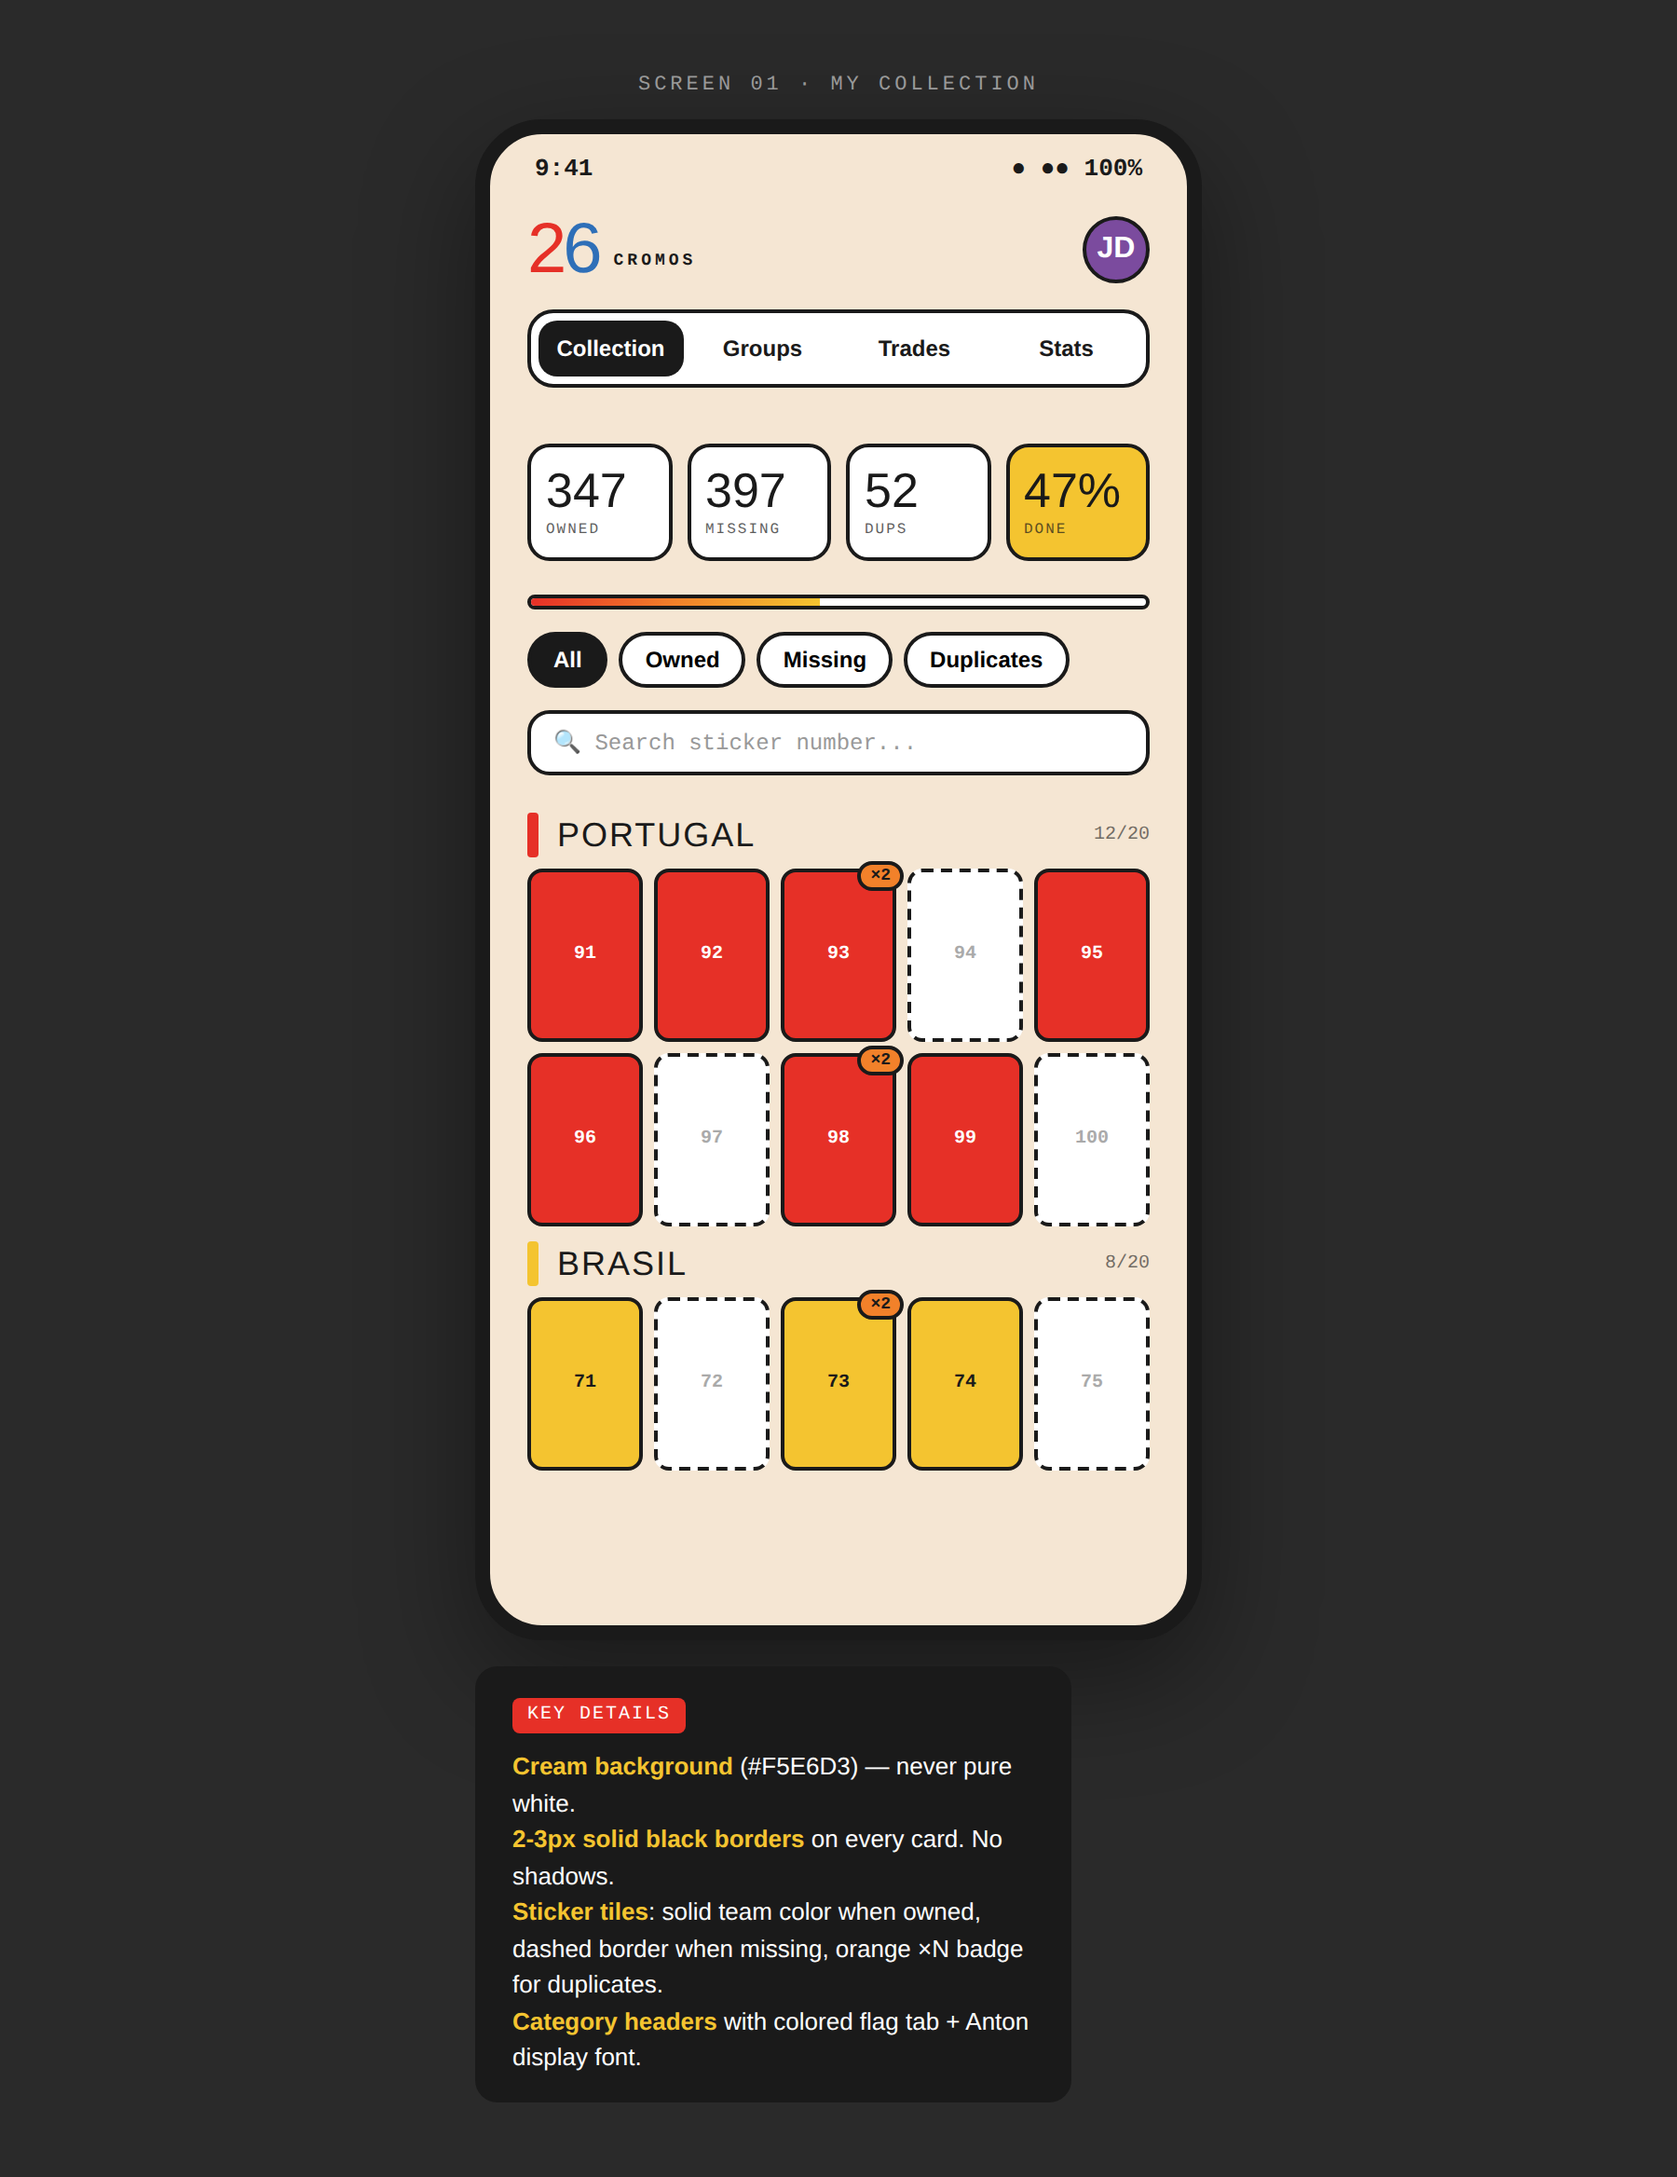
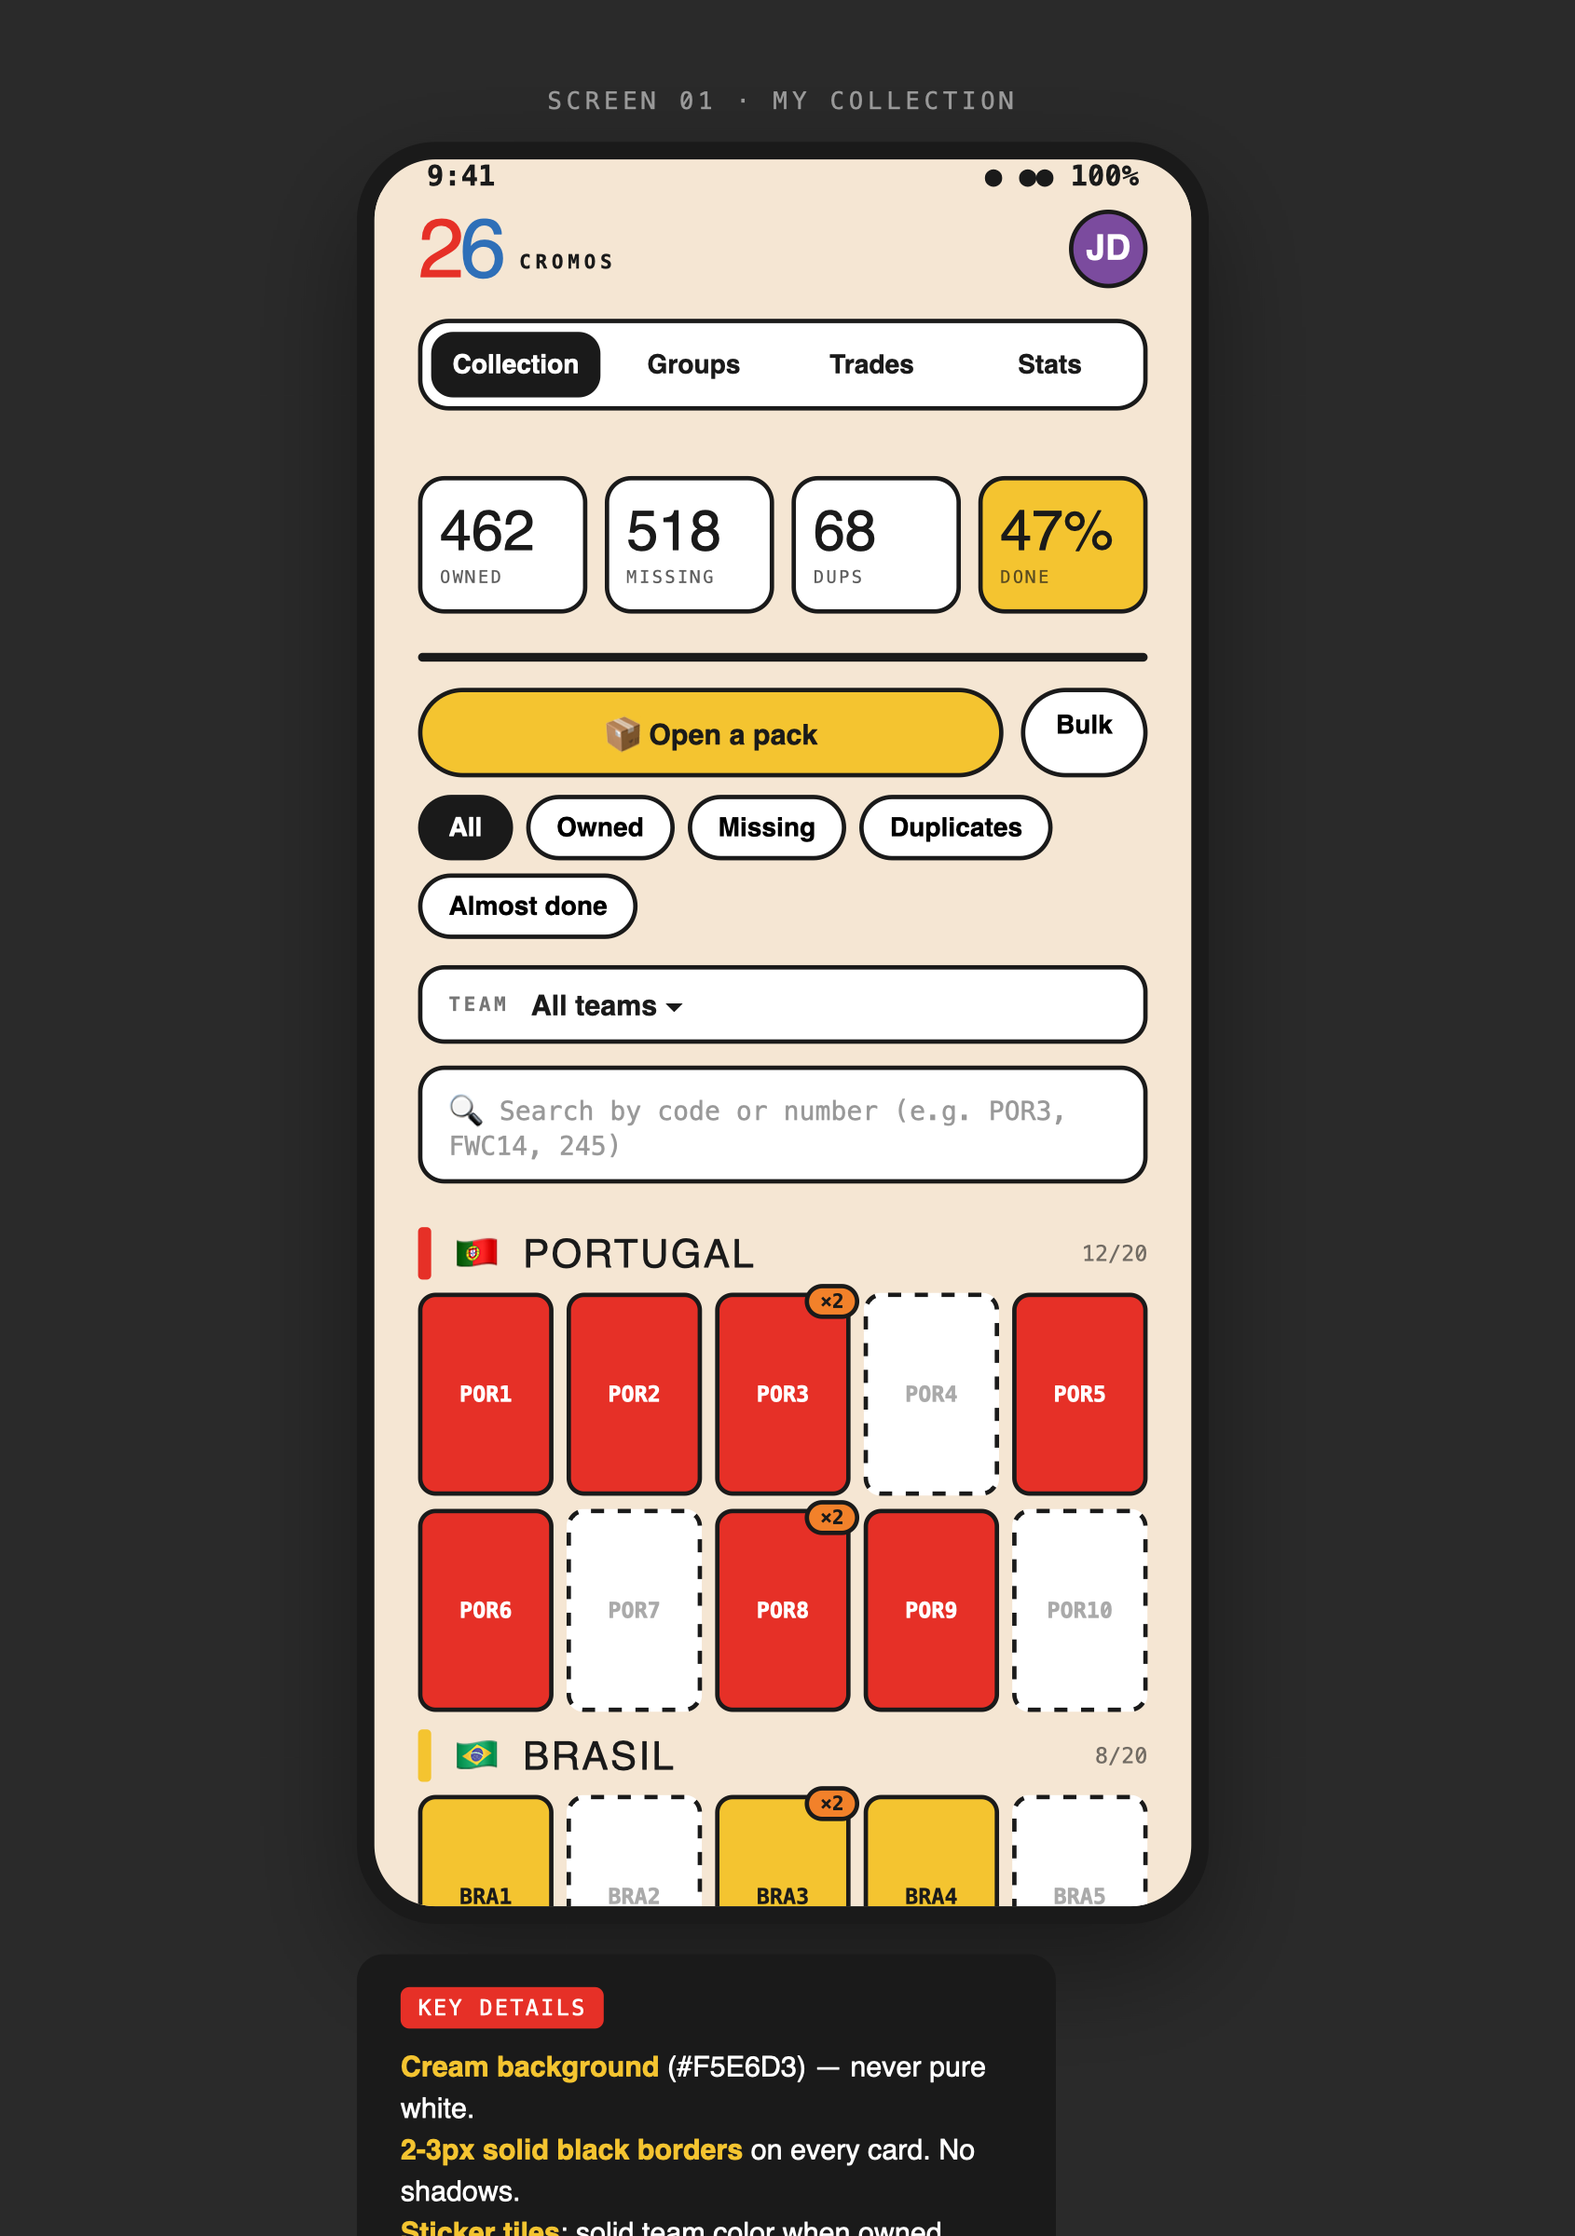
docs(design-refs): mockups reflect the album-accurate numbering
The README screenshot strip was still showing the old #91/#92/#94 sticker numbers
even though the live app now renders POR1, POR2, FWC14, etc. Updated:

- 03-screen-collection.html: tile labels POR1..POR10, BRA1..BRA5; added the new
  "Open a pack" yellow CTA, "Almost done" filter chip, and the team-picker
  dropdown row; updated stat counts to add up to 980; reworded the search
  placeholder to match the live UI (\"Search by code or number...\").
- 04-screen-group.html: trade-suggestion chips now show prefixed labels
  (RSA3, BIH7, MAR5, AUS18, CZE14, QAT16, USA12, ECU1, MEX2, CZE9, HAI20,
  CAN8, AUS10) instead of #43/#127/etc.
- 05-screen-stats.html: stickers total is 980 (was 744); "Legends 11/50"
  category replaced with the real "FIFA Museum 7/11"; numbers add up.

Re-rendered all three to PNG via macOS qlmanage at 2400px and cropped to the
phone+annotation layout the README expects.

diff --git a/design-refs/03-screen-collection.html b/design-refs/03-screen-collection.html
@@ -182,7 +182,7 @@
     padding: 0 20px 12px;
     display: flex;
     gap: 6px;
-    overflow-x: auto;
+    flex-wrap: wrap;
   }
   .chip {
     padding: 6px 12px;
@@ -194,6 +194,51 @@
     white-space: nowrap;
   }
   .chip.active { background: var(--panini-ink); color: #fff; }
+  /* action row: open-a-pack CTA + bulk toggle */
+  .action-row {
+    padding: 0 20px 8px;
+    display: flex;
+    gap: 8px;
+  }
+  .pack-cta {
+    flex: 1;
+    background: var(--panini-yellow);
+    border: 2px solid var(--panini-ink);
+    border-radius: 999px;
+    padding: 8px 14px;
+    text-align: center;
+    font-weight: 700;
+    font-size: 13px;
+    color: var(--panini-ink);
+  }
+  .action-row .chip {
+    padding: 8px 14px;
+  }
+  /* team picker */
+  .team-row {
+    margin: 0 20px 10px;
+    background: #fff;
+    border: 2px solid var(--panini-ink);
+    border-radius: 12px;
+    padding: 8px 12px;
+    display: flex;
+    align-items: center;
+    gap: 10px;
+  }
+  .team-label {
+    font-family: 'JetBrains Mono', monospace;
+    font-size: 9px;
+    letter-spacing: 1.5px;
+    font-weight: 700;
+    color: var(--panini-ink);
+    opacity: 0.6;
+  }
+  .team-value {
+    font-family: 'DM Sans', sans-serif;
+    font-size: 13px;
+    font-weight: 600;
+    color: var(--panini-ink);
+  }
   /* search */
   .search {
     margin: 0 20px 12px;
@@ -220,6 +265,10 @@
     height: 24px;
     background: var(--panini-red);
     border-radius: 2px;
+  }
+  .category-emoji {
+    font-size: 18px;
+    line-height: 1;
   }
   .category-name {
     font-family: 'Anton', sans-serif;
@@ -334,54 +383,67 @@
         </div>
 
         <div class="stats-strip">
-          <div class="stat"><div class="num">347</div><div class="lbl">Owned</div></div>
-          <div class="stat"><div class="num">397</div><div class="lbl">Missing</div></div>
-          <div class="stat"><div class="num">52</div><div class="lbl">Dups</div></div>
+          <div class="stat"><div class="num">462</div><div class="lbl">Owned</div></div>
+          <div class="stat"><div class="num">518</div><div class="lbl">Missing</div></div>
+          <div class="stat"><div class="num">68</div><div class="lbl">Dups</div></div>
           <div class="stat complete"><div class="num">47%</div><div class="lbl">Done</div></div>
         </div>
 
         <div class="progress"><div class="progress-fill"></div></div>
+
+        <div class="action-row">
+          <div class="pack-cta">📦 Open a pack</div>
+          <div class="chip">Bulk</div>
+        </div>
 
         <div class="chips">
           <div class="chip active">All</div>
           <div class="chip">Owned</div>
           <div class="chip">Missing</div>
           <div class="chip">Duplicates</div>
+          <div class="chip">Almost done</div>
         </div>
 
-        <div class="search">🔍 Search sticker number...</div>
+        <div class="team-row">
+          <span class="team-label">TEAM</span>
+          <span class="team-value">All teams ▾</span>
+        </div>
+
+        <div class="search">🔍 Search by code or number (e.g. POR3, FWC14, 245)</div>
 
         <div class="category-header">
           <div class="category-flag" style="background: var(--panini-red)"></div>
+          <div class="category-emoji">🇵🇹</div>
           <div class="category-name">PORTUGAL</div>
           <div class="category-count">12/20</div>
         </div>
 
         <div class="stickers">
-          <div class="sticker owned">91</div>
-          <div class="sticker owned">92</div>
-          <div class="sticker owned dup">93</div>
-          <div class="sticker missing">94</div>
-          <div class="sticker owned">95</div>
-          <div class="sticker owned">96</div>
-          <div class="sticker missing">97</div>
-          <div class="sticker owned dup">98</div>
-          <div class="sticker owned">99</div>
-          <div class="sticker missing">100</div>
+          <div class="sticker owned">POR1</div>
+          <div class="sticker owned">POR2</div>
+          <div class="sticker owned dup">POR3</div>
+          <div class="sticker missing">POR4</div>
+          <div class="sticker owned">POR5</div>
+          <div class="sticker owned">POR6</div>
+          <div class="sticker missing">POR7</div>
+          <div class="sticker owned dup">POR8</div>
+          <div class="sticker owned">POR9</div>
+          <div class="sticker missing">POR10</div>
         </div>
 
         <div class="category-header">
           <div class="category-flag" style="background: var(--panini-yellow)"></div>
+          <div class="category-emoji">🇧🇷</div>
           <div class="category-name">BRASIL</div>
           <div class="category-count">8/20</div>
         </div>
 
         <div class="stickers">
-          <div class="sticker owned team-2">71</div>
-          <div class="sticker missing">72</div>
-          <div class="sticker owned team-2 dup">73</div>
-          <div class="sticker owned team-2">74</div>
-          <div class="sticker missing">75</div>
+          <div class="sticker owned team-2">BRA1</div>
+          <div class="sticker missing">BRA2</div>
+          <div class="sticker owned team-2 dup">BRA3</div>
+          <div class="sticker owned team-2">BRA4</div>
+          <div class="sticker missing">BRA5</div>
         </div>
       </div>
     </div>

diff --git a/design-refs/04-screen-group.html b/design-refs/04-screen-group.html
@@ -383,20 +383,20 @@
             <div class="trade-side">
               <div class="heading">JOÃO GIVES</div>
               <div class="chip-list">
-                <span class="num-chip give">#43</span>
-                <span class="num-chip give">#127</span>
-                <span class="num-chip give">#205</span>
-                <span class="num-chip give">#318</span>
+                <span class="num-chip give">RSA3</span>
+                <span class="num-chip give">BIH7</span>
+                <span class="num-chip give">MAR5</span>
+                <span class="num-chip give">AUS18</span>
                 <span class="num-chip give">+8</span>
               </div>
             </div>
             <div class="trade-side">
               <div class="heading">MARIA GIVES</div>
               <div class="chip-list">
-                <span class="num-chip get">#94</span>
-                <span class="num-chip get">#156</span>
-                <span class="num-chip get">#272</span>
-                <span class="num-chip get">#401</span>
+                <span class="num-chip get">CZE14</span>
+                <span class="num-chip get">QAT16</span>
+                <span class="num-chip get">USA12</span>
+                <span class="num-chip get">ECU1</span>
                 <span class="num-chip get">+8</span>
               </div>
             </div>
@@ -416,17 +416,17 @@
             <div class="trade-side">
               <div class="heading">JOÃO GIVES</div>
               <div class="chip-list">
-                <span class="num-chip give">#22</span>
-                <span class="num-chip give">#89</span>
-                <span class="num-chip give">#240</span>
+                <span class="num-chip give">MEX2</span>
+                <span class="num-chip give">CZE9</span>
+                <span class="num-chip give">HAI20</span>
                 <span class="num-chip give">+4</span>
               </div>
             </div>
             <div class="trade-side">
               <div class="heading">PEDRO GIVES</div>
               <div class="chip-list">
-                <span class="num-chip get">#108</span>
-                <span class="num-chip get">#310</span>
+                <span class="num-chip get">CAN8</span>
+                <span class="num-chip get">AUS10</span>
                 <span class="num-chip get">+5</span>
               </div>
             </div>

diff --git a/design-refs/05-screen-stats.html b/design-refs/05-screen-stats.html
@@ -278,26 +278,26 @@
           <div class="hero-content">
             <div class="hero-tag">Album completion</div>
             <div class="hero-num">47<span class="pct-symbol">%</span></div>
-            <div class="hero-sub">347 / 744 stickers</div>
+            <div class="hero-sub">462 / 980 stickers</div>
           </div>
         </div>
 
         <div class="stat-grid">
           <div class="stat-block green">
             <div class="lbl">Owned</div>
-            <div class="num">347</div>
+            <div class="num">462</div>
           </div>
           <div class="stat-block red">
             <div class="lbl">Missing</div>
-            <div class="num">397</div>
+            <div class="num">518</div>
           </div>
           <div class="stat-block yellow">
             <div class="lbl">Duplicates</div>
-            <div class="num">52</div>
+            <div class="num">68</div>
           </div>
           <div class="stat-block purple">
             <div class="lbl">Total</div>
-            <div class="num">399</div>
+            <div class="num">530</div>
           </div>
         </div>
 
@@ -331,10 +331,10 @@
             <div class="cat-count">6/20</div>
           </div>
           <div class="cat-row">
-            <div class="cat-swatch" style="background: var(--panini-purple)"></div>
-            <div class="cat-name">Legends</div>
-            <div class="cat-bar"><div class="cat-fill" style="width: 22%; background: var(--panini-purple)"></div></div>
-            <div class="cat-count">11/50</div>
+            <div class="cat-swatch" style="background: var(--panini-navy)"></div>
+            <div class="cat-name">FIFA Museum</div>
+            <div class="cat-bar"><div class="cat-fill" style="width: 64%; background: var(--panini-navy)"></div></div>
+            <div class="cat-count">7/11</div>
           </div>
         </div>
       </div>
